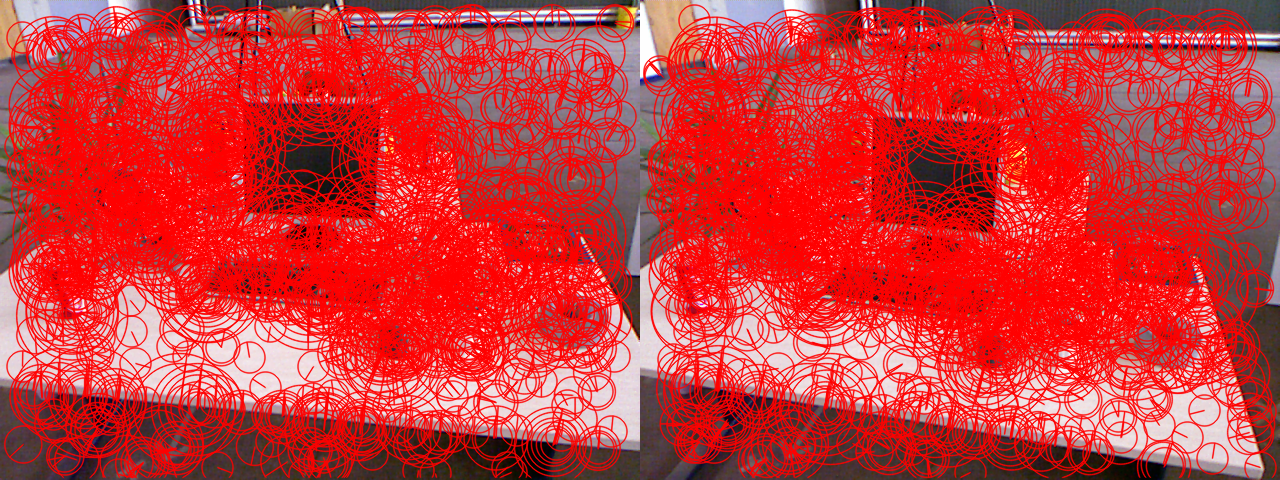
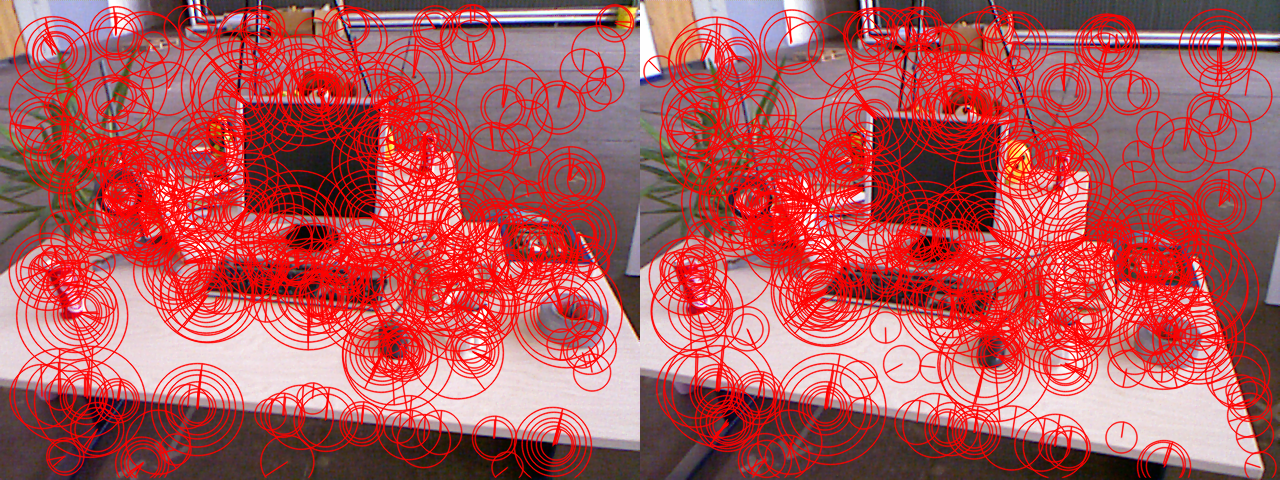
orb default parameter support

diff --git a/compare/compare.cc b/compare/compare.cc
@@ -17,6 +17,10 @@ void detection_and_matching(char** argv) {
     cv::Mat image1 = cv::imread ( argv[1], cv::IMREAD_COLOR );
     cv::Mat image2 = cv::imread ( argv[2], cv::IMREAD_COLOR );
 
+    // Resize image to 640, 480 to match intel realsense input
+    cv::resize(image1, image1, cv::Size(640, 480), cv::INTER_LINEAR);
+    cv::resize(image2, image2, cv::Size(640, 480), cv::INTER_LINEAR);
+
     cv::Mat image1_grayscale;
     cv::Mat image2_grayscale;
 
@@ -42,12 +46,13 @@ void detection_and_matching(char** argv) {
     } 
     else if (type == "orb") {
         printf("Build our own ORB feature detector\n"); fflush( stdout );
-        int num_features = 1200;
-        float pyramid_scale_factor = 1.2f;
-        int pyramid_num_level = 8;
-        int fast_default_threshold = 20;
-        int fast_min_threshold  = 7;
-        orb::ORBDetectorDescriptor orb_feature{ num_features, pyramid_scale_factor, pyramid_num_level, fast_default_threshold, fast_min_threshold };
+        // Below are ORB default setting
+        // int num_features = 500;
+        // float pyramid_scale_factor = 1.2f;
+        // int pyramid_num_level = 8;
+        // int fast_default_threshold = 20;
+        // int fast_min_threshold  = 7;
+        orb::ORBDetectorDescriptor orb_feature{ };
         orb_feature.detectAndCompute( image1_grayscale, cv::noArray(), keypoints1, descriptors1 );
         orb_feature.detectAndCompute( image2_grayscale, cv::noArray(), keypoints2, descriptors2 );
     }
@@ -66,6 +71,10 @@ void detection_and_matching(char** argv) {
         descriptorExtractor->compute(image1_grayscale, keypoints1, descriptors1);
         descriptorExtractor->compute(image2_grayscale, keypoints2, descriptors2);
     }
+
+    // Info
+    printf("Image 1 detect %lu number of feature\n", keypoints1.size());
+    printf("Image 2 detect %lu number of feature\n", keypoints2.size());
 
     // Matching
     printf("Build opencv matcher\n"); fflush( stdout );

diff --git a/include/orb/orb.h b/include/orb/orb.h
@@ -59,11 +59,11 @@ class ORBDetectorDescriptor : public cv::Feature2D
          * @param _fast_default_threshold : default threshold used by fast
          * @param _fast_min_threshold : adaptive min threshold used by fast
          */
-        ORBDetectorDescriptor( int _num_features, \
-                               float pyramid_scale_factor, \
-                               int _pyramid_num_level, \
-                               int _fast_default_threshold, \
-                               int _fast_min_threshold );
+        ORBDetectorDescriptor( int _num_features = 500, \
+                               float pyramid_scale_factor = 1.2f, \
+                               int _pyramid_num_level = 8, \
+                               int _fast_default_threshold = 20, \
+                               int _fast_min_threshold = 7 );
 
         /**
          * @brief Destroy the ORBDetectorDescriptor object
